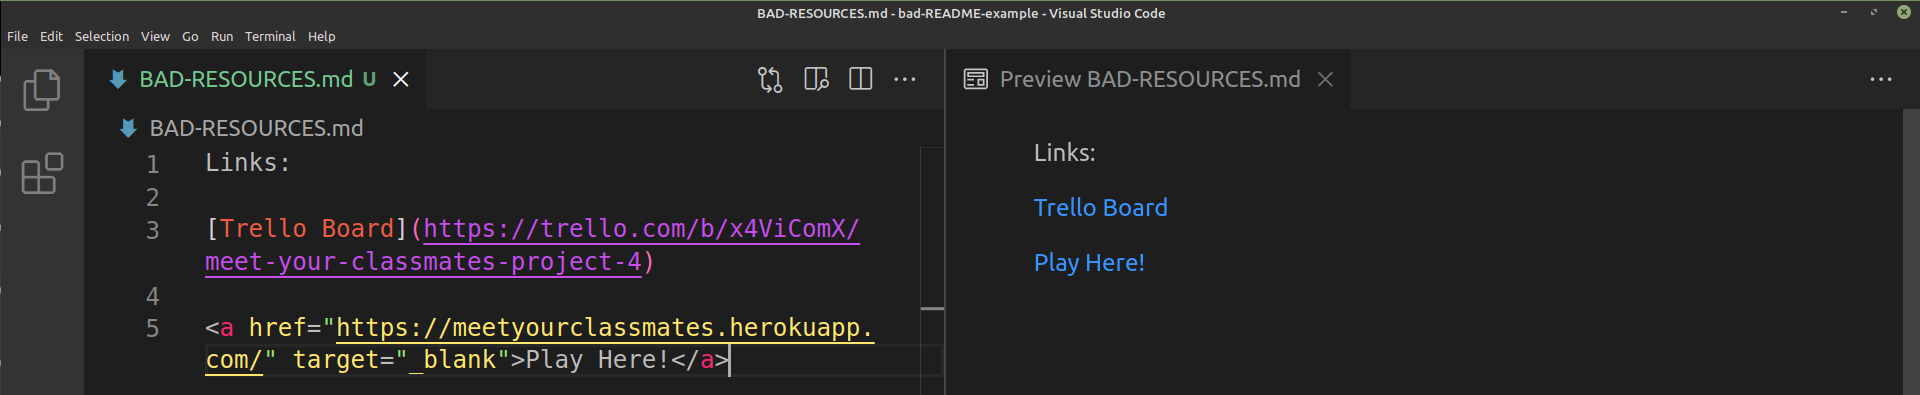
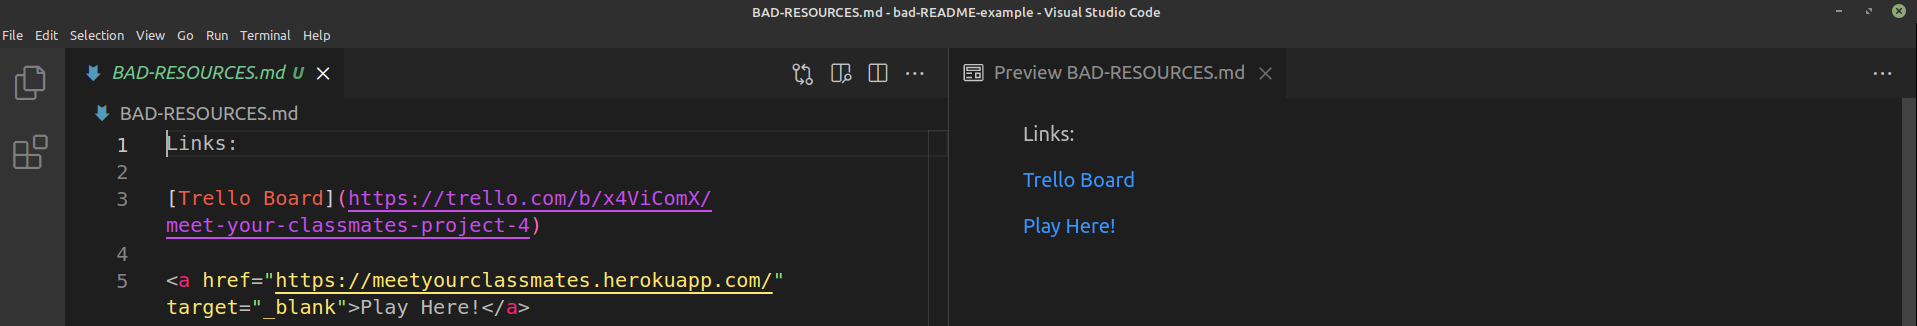
fix all photos so good and bad dividers align

diff --git a/README.md b/README.md
@@ -19,10 +19,11 @@ Thus, today we'll take a look at how to clean-up an existing README so that it b
  
 |            | Instructions |
 |------------|--------------|
-| Note:      | Each `#` stands for a header of that number in HTML | 
+| Note:      | Each `'#'` stands for a header of that number in HTML | 
 |            | Ex. `#` --> \<h1> |
 |            | Ex. `######` --> \<h6>|
 | Note:      | Integrate styling with `<h1 align="center">` to center text |
+| Note:      | Add your deployed link directly to the top here - many users won't scroll all the way down to find it.
 | Note:      | Use emojis by typing in `:emojiname:` Ex. `:school:` ---> :school:
 | Note:      | A full list of available emojis can be found [here](https://github.com/ikatyang/emoji-cheat-sheet/blob/master/README.md).
 
@@ -39,6 +40,7 @@ Thus, today we'll take a look at how to clean-up an existing README so that it b
 | Note:      | Whatever is placed in between `<details></details> ` will be put into a closed drop-down menu. The title for this should be placed in between `<summary></summary>` 
 | Note:      | To have a drop-down menu display by default without the user having to click it, add the word 'open' to the details tag
 |            |Ex. `<details>`  -->  `<details open>` 
+| Note:      |Images can also be resized with `<img src="" width="300" height="400">`
 
 ## <h2  align="center">Getting Started</h2>
  <img src="./images/BAD-GETTING-STARTED.png">    
@@ -54,7 +56,7 @@ Thus, today we'll take a look at how to clean-up an existing README so that it b
 
 |            | Instructions |
 |------------|--------------|
-| Note:      | Separate each technology used with a `\|` to avoid making your README unnecessarily long 
+| Note:      | Separate each technology used with a `'\|'`(vertical bar) to avoid making your README unnecessarily long 
 
 ## <h2  align="center">Resources</h2>
  <img src="./images/BAD-RESOURCES.png">    

diff --git a/markdowns/resources/BAD-RESOURCES.md b/markdowns/resources/BAD-RESOURCES.md
@@ -1,0 +1,5 @@
+Links:
+
+[Trello Board](https://trello.com/b/x4ViComX/meet-your-classmates-project-4)
+
+<a href="https://meetyourclassmates.herokuapp.com/" target="_blank">Play Here!</a>

diff --git a/markdowns/getting-started/GOOD-GETTING-STARTED.md b/markdowns/getting-started/GOOD-GETTING-STARTED.md
@@ -19,5 +19,4 @@
  
 3. To see more posts by the same user, click on the revealed username and profile picture.
 
- 
 </details>
